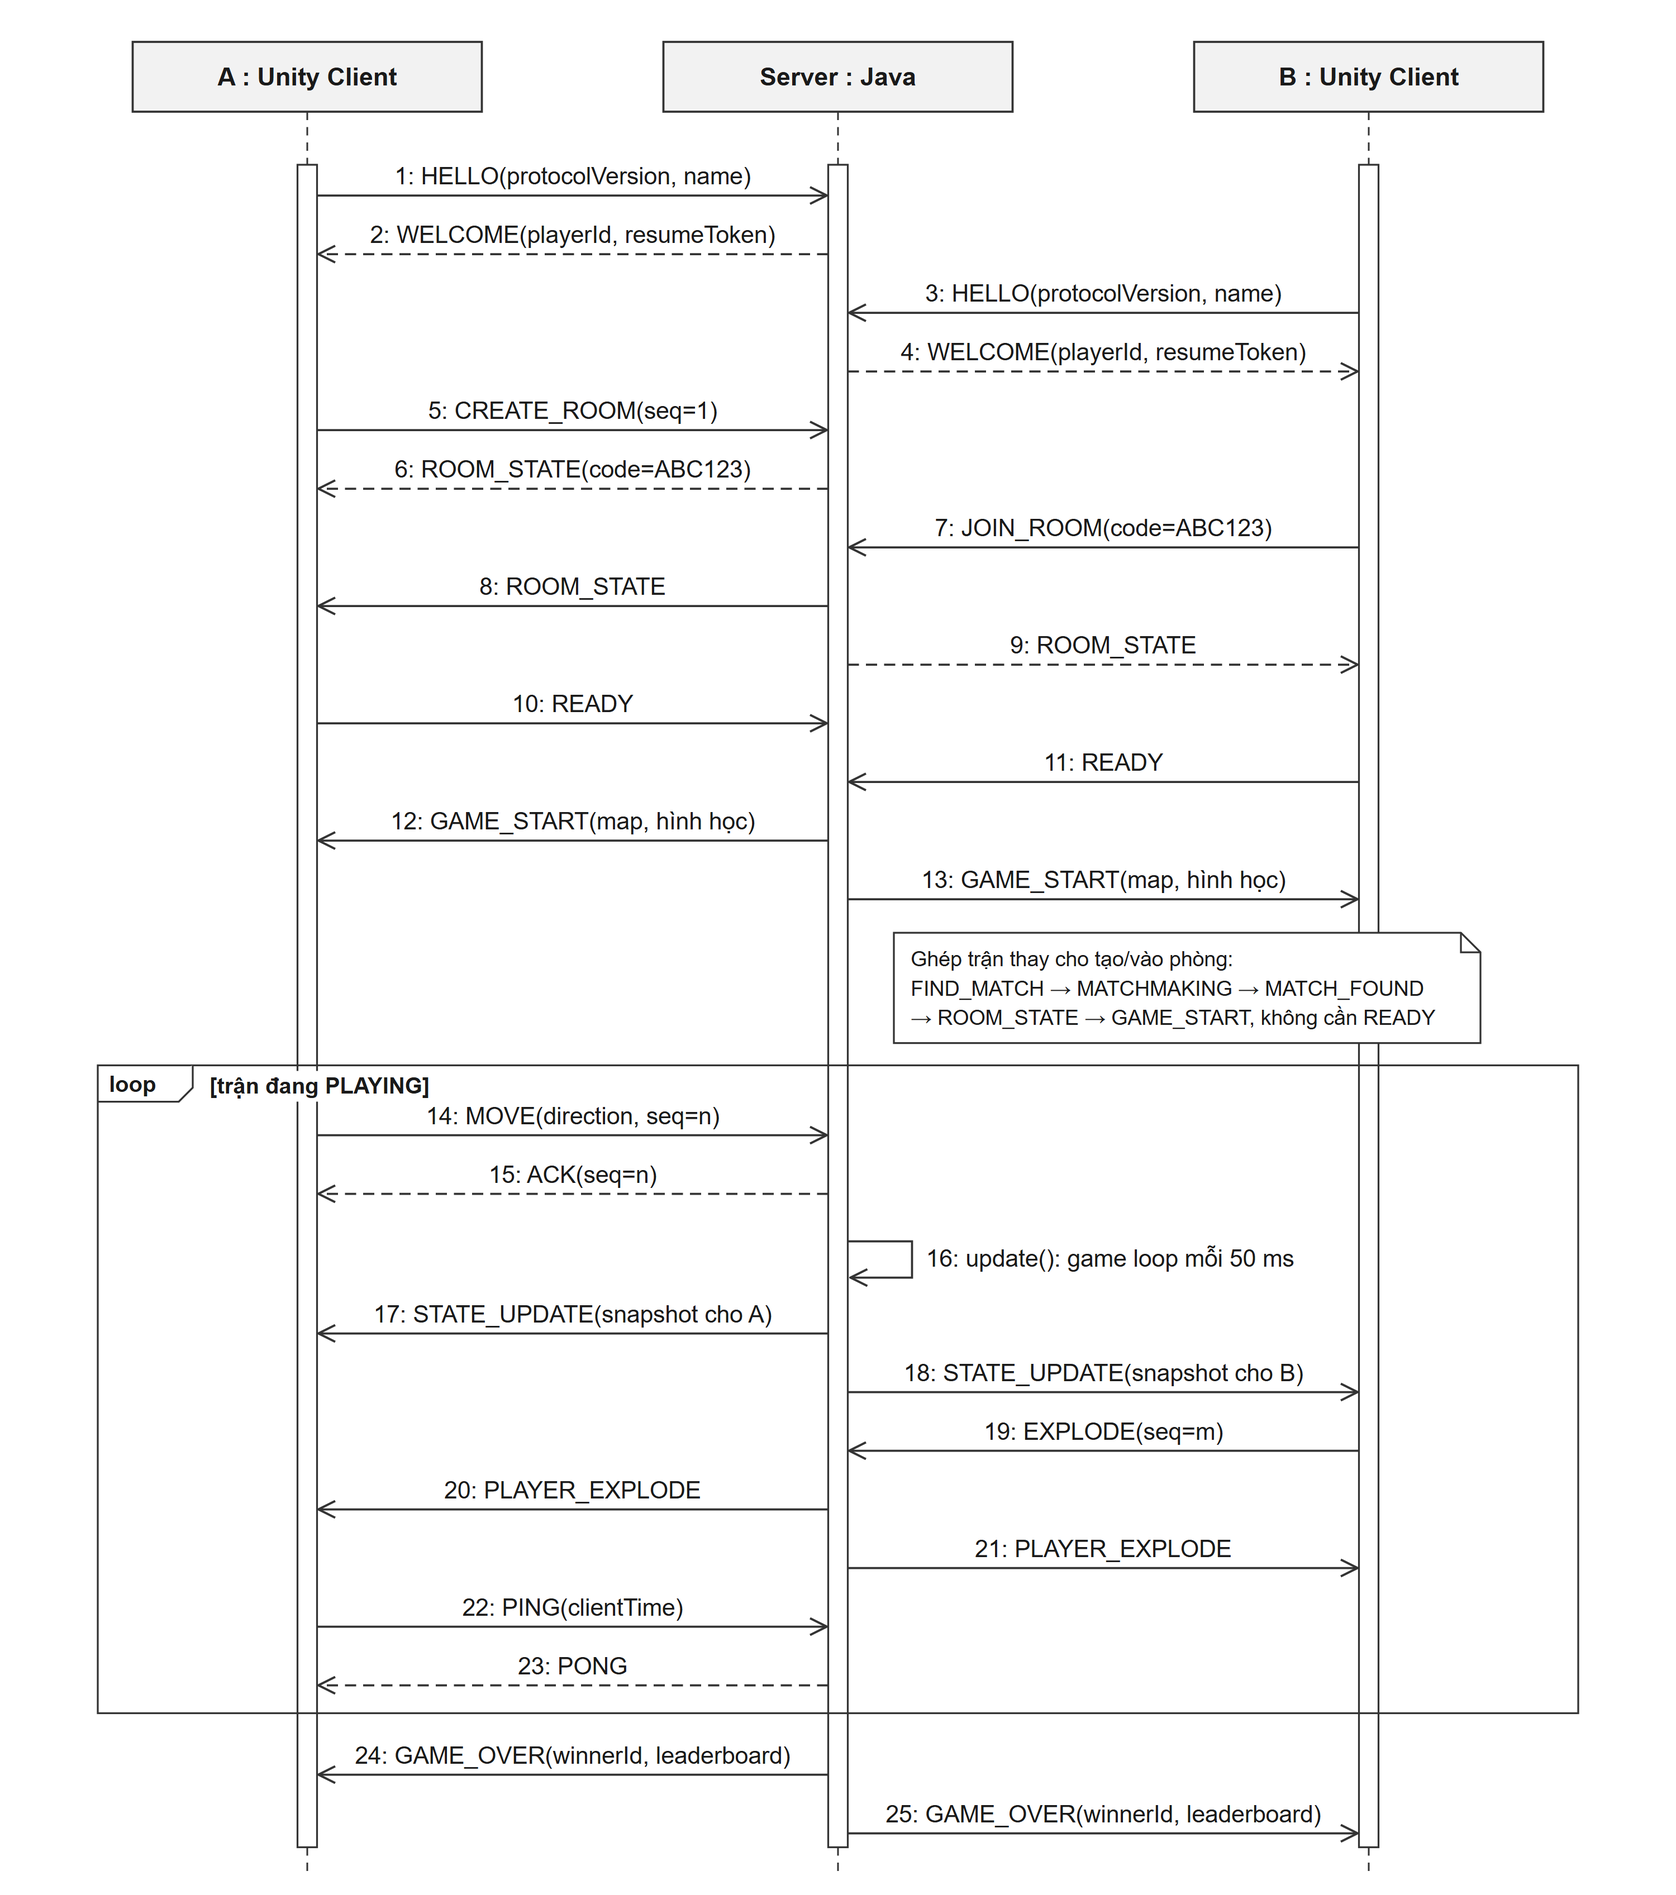
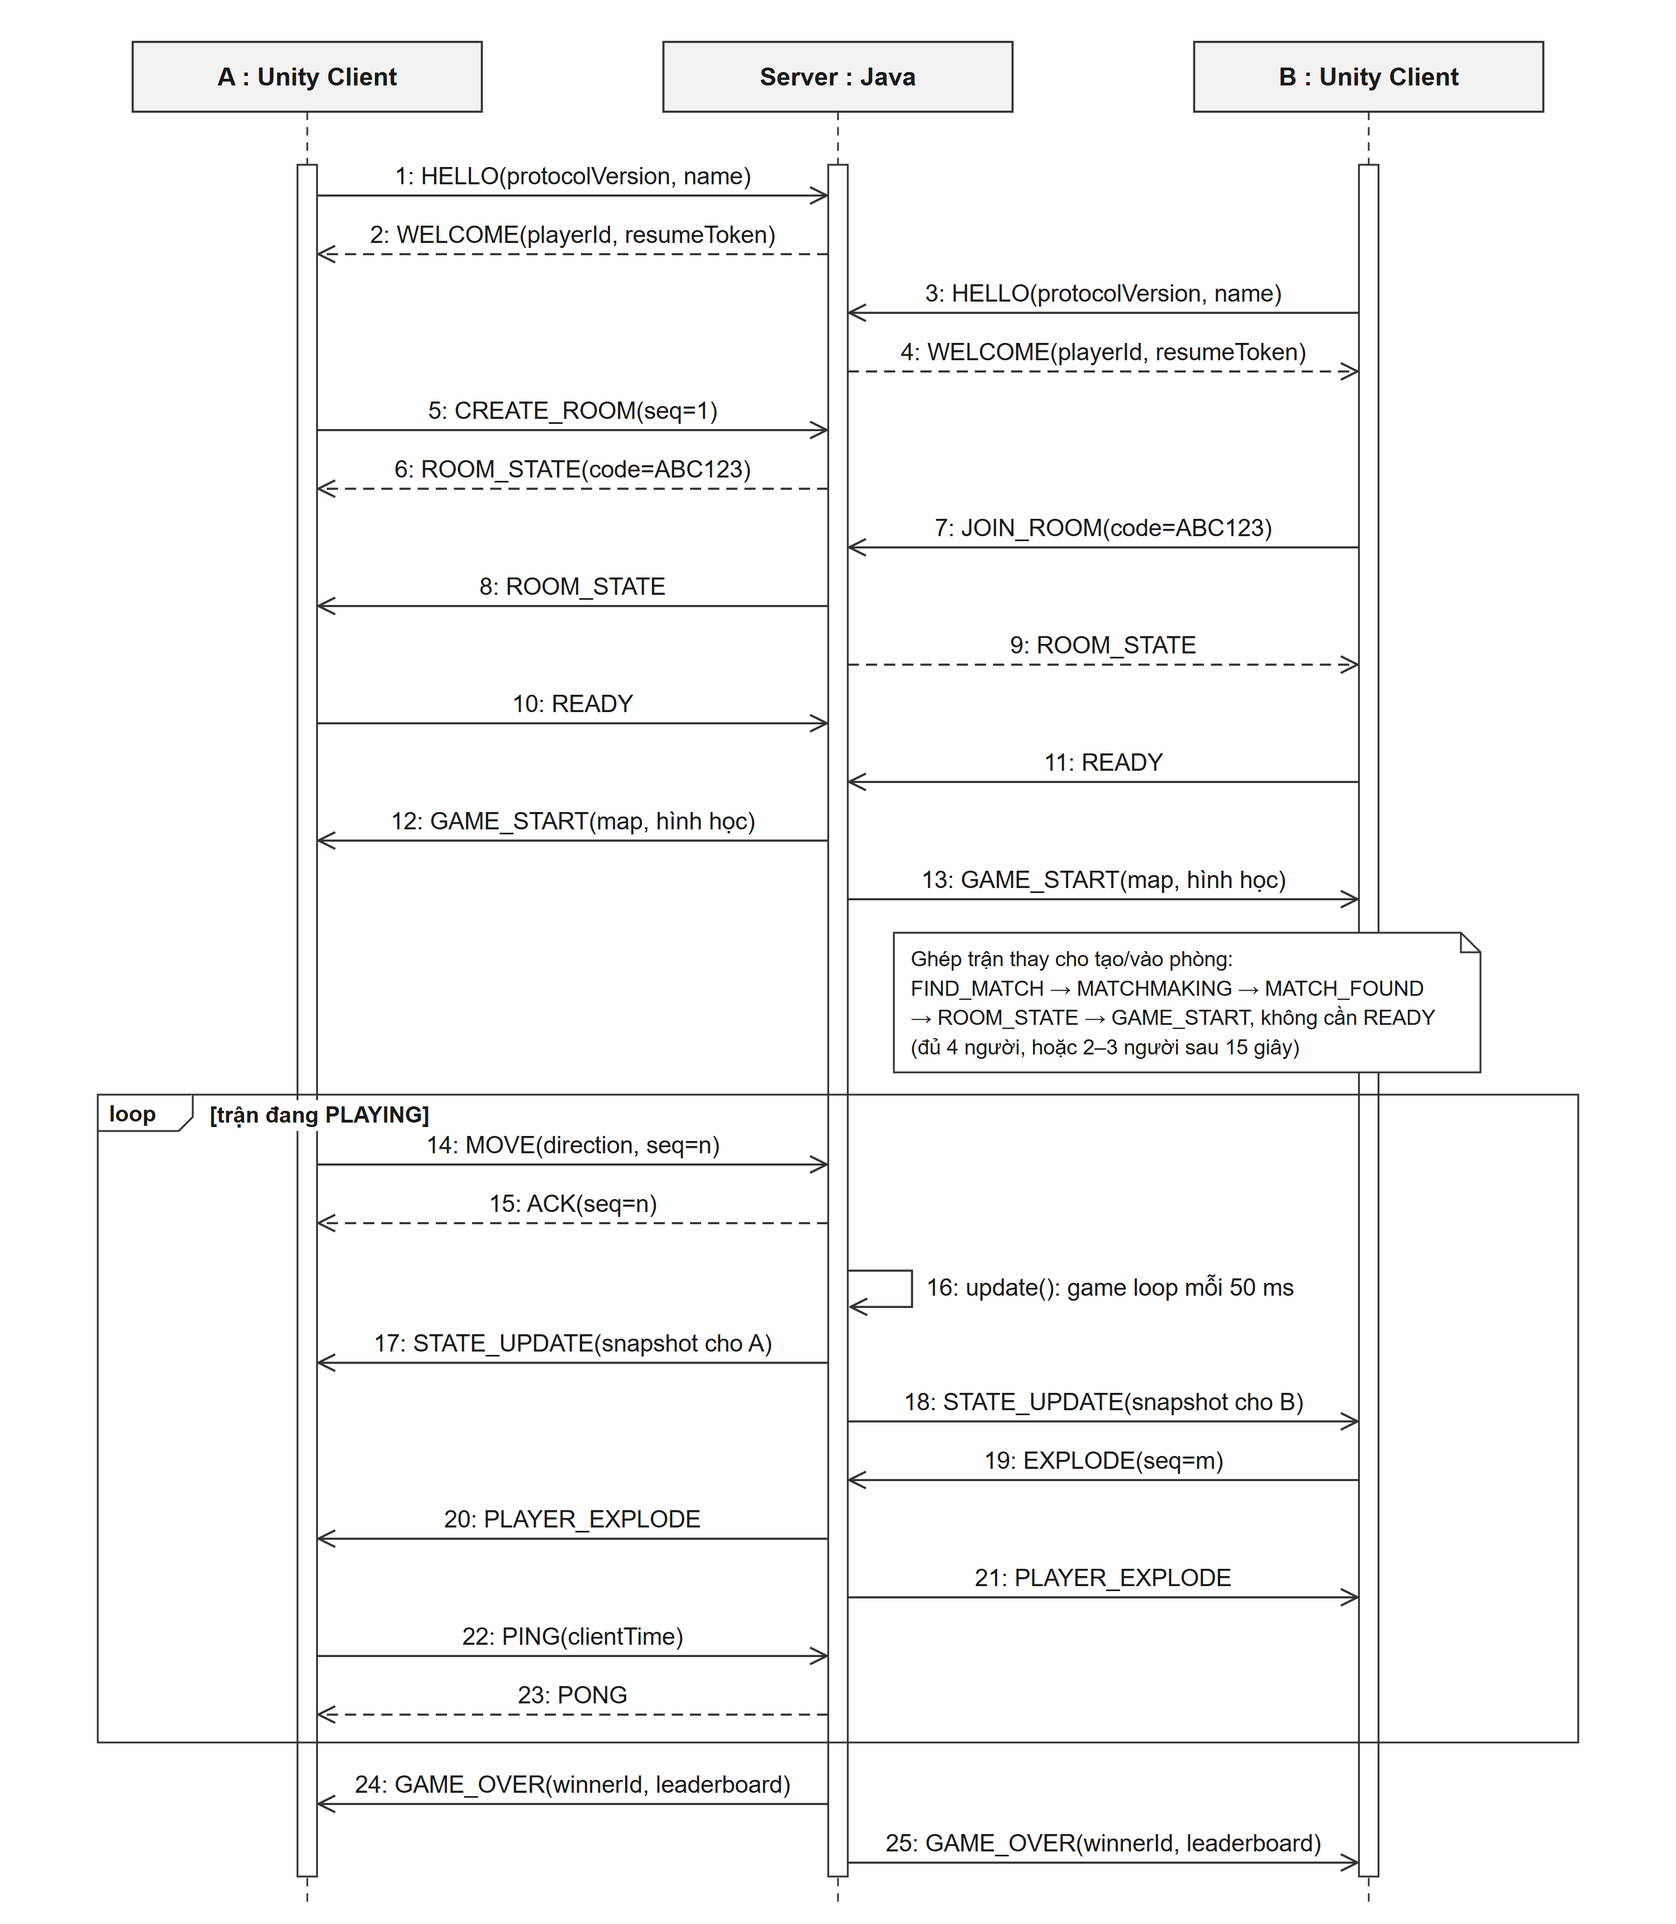
sửa báo cáo

diff --git a/docs/REPORT.md b/docs/REPORT.md
@@ -19,7 +19,7 @@ Trong game hành động nhiều người, mọi máy phải thấy cùng một 
 
 Nhóm xây dựng **Bomb Me Baby**, một game đấu trường PvP 2.5D gồm Java server và Unity client giao tiếp qua TCP. Server giữ quyền quyết định toàn bộ luật chơi (server-authoritative). Client chỉ gửi ý định điều khiển và hiển thị trạng thái nhận về. Giao thức là JSON theo dòng, có số thứ tự `seq` để chống request trùng, heartbeat, timeout và cơ chế reconnect bằng resume token. Server mô phỏng ở 20 Hz và gửi snapshot ở 10 Hz. Đóng góp chính là cơ chế **đồng bộ trạng thái chọn lọc**: hình học bản đồ chỉ gửi một lần, vật phẩm và đối thủ chỉ được gửi khi người xem được phép thấy. Ngoài ra, hệ thống phục hồi phiên chơi sau mất kết nối mà vẫn giữ đúng thứ tự vòng đời trận, và dùng thứ tự khóa cố định cùng hàng đợi ghi riêng cho từng client để một client chậm không làm chậm cả phòng.
 
-Trên loopback với 2, 4 và 8 client giả lập (18 lượt × 30 giây, không có lỗi kết nối), chế độ chọn lọc giảm **62,0–77,8%** số byte mỗi client nhận trong một giây so với baseline gửi đầy đủ, trong khi RTT không tăng một cách đo được. Bộ 116 test JUnit bao phủ kết nối, reconnect, ghép trận và luật chơi ở cả hai chế độ đồng bộ.
+Trên loopback với 2, 4 và 8 client giả lập (18 lượt × 30 giây, không có lỗi kết nối), chế độ chọn lọc giảm **62,0–77,8%** số byte mỗi client nhận trong một giây so với baseline gửi đầy đủ, trong khi RTT không tăng một cách đo được. Bộ 117 test JUnit bao phủ kết nối, reconnect, ghép trận và luật chơi ở cả hai chế độ đồng bộ.
 
 ## 2. Keywords
 
@@ -73,7 +73,7 @@ Thiết kế và triển khai một hệ thống client/server cho game đấu t
 
 **Interest management.** Nhiều game chỉ gửi cho mỗi người các thực thể nằm trong vùng quan tâm của họ. Hạn chế của cách gửi đầy đủ là kích thước snapshot tăng theo tổng số thực thể và client biết cả những gì nhân vật không nhìn thấy. Dự án áp dụng ý tưởng này ở mức đơn giản: lọc theo khoảng cách nhìn và bụi. Nhóm không tuyên bố phát minh ra interest management.
 
-**Serialization.** Server dùng Gson [5], client dùng Newtonsoft.Json trong Unity [3]. JSON dễ đọc và dễ debug nhưng tốn byte hơn binary. Đây là đánh đổi có chủ đích cho phạm vi đồ án.
+**Serialization.** Server dùng Gson [5], client dùng `JsonUtility` có sẵn trong Unity [3]. JSON dễ đọc và dễ debug nhưng tốn byte hơn binary. Đây là đánh đổi có chủ đích cho phạm vi đồ án.
 
 ---
 
@@ -92,7 +92,7 @@ Server gửi về: `WELCOME`, `ROOM_STATE`, `MATCHMAKING`, `MATCH_FOUND`, `GAME_
 | Ràng buộc | Giá trị |
 | --- | --- |
 | Số người mỗi phòng riêng | 2–10 |
-| Số người mỗi nhóm ghép trận | 2–4 |
+| Số người mỗi nhóm ghép trận | 2–4 (đủ 4 người thì vào ngay, 2–3 người chờ 15 giây) |
 | Số kết nối đồng thời | Tối đa 64 |
 | Độ dài một frame | Tối đa 2048 ký tự |
 | Cửa sổ reconnect | 10 giây |
@@ -169,7 +169,7 @@ Với mỗi người xem `v` trong phòng, ở mỗi chu kỳ snapshot:
 | Network layer phía client | `BombNetwork.cs` | Socket TCP, luồng ghi nền, inbox giới hạn, heartbeat, tự reconnect |
 | Network layer phía server | `BombServer.java` | Lắng nghe cổng, đọc frame, kiểm tra `seq`, điều phối request, quản lý phiên |
 | Processing | `GameRoom.java`, `ShardObjective.java`, `GameRules.java` | Mô phỏng trận, luật chiến đấu, mục tiêu Hành trình |
-| Service | `Matchmaker.java` | Hàng đợi tìm trận theo chế độ, ghép 2–4 người |
+| Service | `Matchmaker.java` | Hàng đợi tìm trận theo chế độ: đủ 4 người thì vào ngay, nhóm 2–3 người vào sau 15 giây đếm ngược |
 | Đồng bộ | `SyncMode.java` | Chọn `BASELINE` hoặc `OPTIMIZED` |
 | Database | Không có | Trạng thái nằm trong bộ nhớ (xem mục 6.4) |
 
@@ -240,7 +240,7 @@ Nguyên tắc chung là server luôn đúng. Client chỉ đoán trước vị t
 
 *Hình 3. Trình tự message của một trận phòng riêng.* Sơ đồ tuần tự (sequence diagram) UML. Mũi tên nét liền là message gửi chủ động, mũi tên nét đứt là phản hồi cho một request. `STATE_UPDATE` gửi cho A và cho B có nội dung khác nhau.
 
-Trong trận, client gửi `MOVE` mỗi 40 ms và `PING` mỗi 2 giây. Server trả `ACK` cho mọi request có `seq` và gửi snapshot mỗi 100 ms, độc lập với nhịp gửi của client. Với ghép trận, client gửi `FIND_MATCH`. Khi đủ ít nhất hai người cùng chế độ, server ghép ở tick kế tiếp, gửi `MATCH_FOUND`, `ROOM_STATE` rồi `GAME_START` mà không cần `READY`.
+Trong trận, client gửi `MOVE` mỗi 40 ms và `PING` mỗi 2 giây. Server trả `ACK` cho mọi request có `seq` và gửi snapshot mỗi 100 ms, độc lập với nhịp gửi của client. Với ghép trận, client gửi `FIND_MATCH`. Khi đủ 4 người cùng chế độ, server ghép ngay ở tick kế tiếp. Nếu chỉ có 2–3 người, server bắt đầu đếm ngược 15 giây từ lúc người thứ hai vào hàng chờ và báo thời gian còn lại qua trường `startsInMs` của `MATCHMAKING`; hết giờ thì ghép nhóm đó. Sau khi ghép, server gửi `MATCH_FOUND`, `ROOM_STATE` rồi `GAME_START` mà không cần `READY`.
 
 ### 8.4. Reconnect
 
@@ -322,7 +322,7 @@ Mô hình 3D, giao diện, hiệu ứng hạt và phần lớn hiệu ứng âm 
 | Phần cứng | 13th Gen Intel Core i9-13900H, RAM 16 GB |
 | Hệ điều hành | Windows 11 Home Single Language (build 26200) |
 | Ngôn ngữ, công cụ | Java 26.0.2 (target Java 17), Maven 3.9.9, Python 3.13.14 |
-| Mã nguồn đo | Commit `c35616f` (bản ngày 25/10), đo ngày 25/10/2026. Bản cuối chỉ thêm kiểm tra phiên bản ở `HELLO`, chạy một lần lúc kết nối nên không ảnh hưởng số đo |
+| Mã nguồn đo | Commit `c35616f` (bản ngày 25/10), đo ngày 25/10/2026. Bản cuối chỉ thêm kiểm tra phiên bản ở `HELLO` và đếm ngược khi ghép trận; cả hai xảy ra trước `GAME_START`, còn benchmark vào trận bằng phòng riêng, nên không ảnh hưởng số đo |
 | Thư viện | Gson 2.11 [5], JUnit 5 [6]; client giả lập chỉ dùng thư viện chuẩn Python |
 | Mạng | Loopback `127.0.0.1:17777` |
 | Bản đồ, chế độ | `meadow` cố định, Đấu nhanh |
@@ -342,7 +342,7 @@ Mô hình 3D, giao diện, hiệu ứng hạt và phần lớn hiệu ứng âm 
 
[1 lines of base64/hex data omitted]
 
-**Kiểm thử chức năng:** 116 test JUnit 5 [6] trong 9 lớp test (`ConnectionTest`, `GameRoomTest`, `ServerFixesTest`, `ReviewFixesTest`, `ShardStealMechanicsTest`, `ShardObjectiveTest`, `CompletionRegressionTest`, `RequestedGameplayRulesTest`, `ShardCarrierActionTest`). Bộ test chạy được ở cả hai chế độ đồng bộ. Ngoài ra có smoke test TCP thật (`scripts/network_smoke.py`), bot (`scripts/bots.py`) và harness kiểm tra Unity Play Mode (`Assets/Editor/BombValidation.cs`).
+**Kiểm thử chức năng:** 117 test JUnit 5 [6] trong 9 lớp test (`ConnectionTest`, `GameRoomTest`, `ServerFixesTest`, `ReviewFixesTest`, `ShardStealMechanicsTest`, `ShardObjectiveTest`, `CompletionRegressionTest`, `RequestedGameplayRulesTest`, `ShardCarrierActionTest`). Bộ test chạy được ở cả hai chế độ đồng bộ. Ngoài ra có smoke test TCP thật (`scripts/network_smoke.py`), bot (`scripts/bots.py`) và harness kiểm tra Unity Play Mode (`Assets/Editor/BombValidation.cs`).
 
 ---
 
@@ -373,7 +373,7 @@ Công thức: `(baseline − optimized) / baseline × 100`. Cột p95 là trung 
 
 | Lớp kiểm tra | Kết quả | Giới hạn |
 | --- | --- | --- |
-| JUnit server | 116/116 test qua ở baseline và 116/116 ở optimized (chạy lại ngày 26/10 trên bản cuối, có kiểm tra phiên bản) | Chạy trên một máy |
+| JUnit server | 117/117 test qua ở baseline và 117/117 ở optimized (chạy lại ngày 26/10 trên bản cuối, có kiểm tra phiên bản và đếm ngược ghép trận) | Chạy trên một máy |
 | Smoke test TCP | 2 client giả lập qua socket thật | Không có rendering |
 | Unity Play Mode | 111 kiểm tra headless qua ngày 24/10 (`docs/FINAL_VALIDATION.md`). Lần chạy lại ngày 25/10 dừng ở bước kiểm tra bản đồ vì bài kiểm tra chưa cập nhật theo cách hiển thị bản đồ mới (mục 14) | Một Unity client cùng peer TCP, chưa phải hai Unity player; chưa có kết quả cho bản cuối |
 | Staging Unity | Kiểm tra bản sao project qua ngày 25/10 | Chỉ kiểm tra việc đồng bộ file |
@@ -393,7 +393,7 @@ Các ảnh dưới đây chụp từ bản build Windows kết nối tới Java 
 
 ![Màn hình tìm trận](images/hinh07-tim-tran.png)
 
-*Hình 7.* Ghép trận ngẫu nhiên: client hiển thị trạng thái hàng chờ theo message `MATCHMAKING` từ server.
+*Hình 7.* Ghép trận ngẫu nhiên: client hiển thị số người đang chờ và thời gian đếm ngược theo message `MATCHMAKING` từ server.
 
 ![Hai client trong cùng một trận](images/hinh08-hai-client.png)
 
@@ -403,25 +403,25 @@ Các ảnh dưới đây chụp từ bản build Windows kết nối tới Java 
 
 *Hình 9.* HUD và bảng debug F3: client hiển thị địa chỉ server, chế độ đồng bộ và RTT đo bằng `PING`/`PONG`.
 
-[[ẢNH: Bụi ẩn nấp. 2 cửa sổ cạnh nhau. Người A đứng trong bụi, người B đứng ngoài bụi cách vài bước. Chụp toàn màn hình: màn hình A vẫn thấy B, màn hình B không thấy A.]]
+![Bụi ẩn nấp](images/hinh10-bui.png)
 
 *Hình 10.* Đồng bộ chọn lọc: người chơi trong bụi không xuất hiện trên màn hình đối thủ ở ngoài, vì server không gửi tọa độ của họ cho người đó.
 
-[[ẢNH: Mất kết nối. Trong trận có 2 cửa sổ, tắt hẳn cửa sổ B (Alt + F4). Chụp màn hình A ngay khi hiện thông báo "... mất kết nối — giữ chỗ 10 giây". Nếu chơi qua LAN, có thể tắt Wi-Fi máy B vài giây để chụp banner đếm ngược reconnect trên màn hình B.]]
+![Thông báo mất kết nối](images/hinh11-mat-ket-noi.png)
 
 *Hình 11.* Xử lý mất kết nối: server giữ chỗ người chơi 10 giây và thông báo cho những người còn lại.
 
-[[ẢNH: Hành trình Tim Lửa. Tạo phòng chế độ Hành trình với 2 người, chờ khoảng 10 giây để Mảnh Tim Lửa xuất hiện. Nhặt mảnh, mang tới bệ đá rồi chụp lúc thanh Khóa Lửa đang chạy.]]
+![Chế độ Hành trình Tim Lửa](images/hinh12-hanh-trinh.png)
 
 *Hình 12.* Chế độ Hành trình Tim Lửa: người chơi mang mảnh lên bệ đá và phải giữ đủ thời gian để thắng chương.
 
-[[ẢNH: Kết quả trận. Chơi Đấu nhanh với 2 người, để cả hai còn sống tới khi hết 3 phút. Chụp bảng xếp hạng cuối trận (điểm hạ, sát thương, HP).]]
+![Bảng kết quả Đấu nhanh](images/hinh13-ket-qua.png)
 
-*Hình 13.* Bảng xếp hạng Đấu nhanh khi hết giờ, do server tính và gửi trong `GAME_OVER`.
+*Hình 13.* Bảng kết quả Đấu nhanh khi hết giờ, do server tính và gửi trong `GAME_OVER`. Trong lượt chụp này hai người không hạ nhau và có cùng điểm nên kết quả là hòa.
 
-![Bản đồ crossroads dựng từ snapshot của Java server](validation/crossroads.png)
+![Bản đồ crossroads trong chế độ Hành trình](images/hinh14-crossroads.png)
 
-*Hình 14. Bản đồ crossroads.* Camera Unity dựng bản đồ từ snapshot của server khi chạy harness kiểm tra ngày 22/10. Ảnh dùng tài nguyên thật của dự án nhưng không có HUD.
+*Hình 14. Bản đồ crossroads.* Bản đồ "Ngã tư bỏ hoang" ở chương 2 của chế độ Hành trình Tim Lửa, chụp từ bản build cuối kết nối tới Java server.
 
 ---
 
@@ -581,7 +581,7 @@ Phần việc dưới đây được tổng hợp từ lịch sử commit trên 
 - Lưu yêu cầu đồ án, lập kế hoạch phân công đầu tiên, vẽ concept arena và HUD, phác thảo cốt truyện Ba Mảnh Tim Lửa.
 - Server cho chế độ Hành trình (20–21/10): mảnh Tim Lửa và bệ đá, viết lại luật mang, cướp và phá ấn mảnh trong `ShardObjective.java`, kèm `ShardStealMechanicsTest`; `JOIN_ROOM` kiểm tra chế độ phòng.
 - Unity: menu chọn chế độ, HUD, minimap, lời dẫn đọc từ `story.json`, cooldown bom, màn mở đầu bằng video có ảnh dự phòng, bảng điểm và màn kết quả.
-- Hoàn thiện bản cuối (25–26/10): bố cục bản đồ (`BombMapLayouts.cs`), chế độ thử cục bộ, bảng xếp hạng Đấu nhanh khi hết giờ, kiểm tra phiên bản khi kết nối (`VERSION_MISMATCH`) kèm test, dọn asset và tài liệu không dùng, viết lại README.
+- Hoàn thiện bản cuối (25–26/10): bố cục bản đồ (`BombMapLayouts.cs`), chế độ thử cục bộ, bảng xếp hạng Đấu nhanh khi hết giờ, kiểm tra phiên bản khi kết nối (`VERSION_MISMATCH`) và ghép trận chờ đủ 4 người hoặc đếm ngược 15 giây, kèm test; dọn asset và tài liệu không dùng, viết lại README.
 
 **Giang Thủy Tiên**
 
